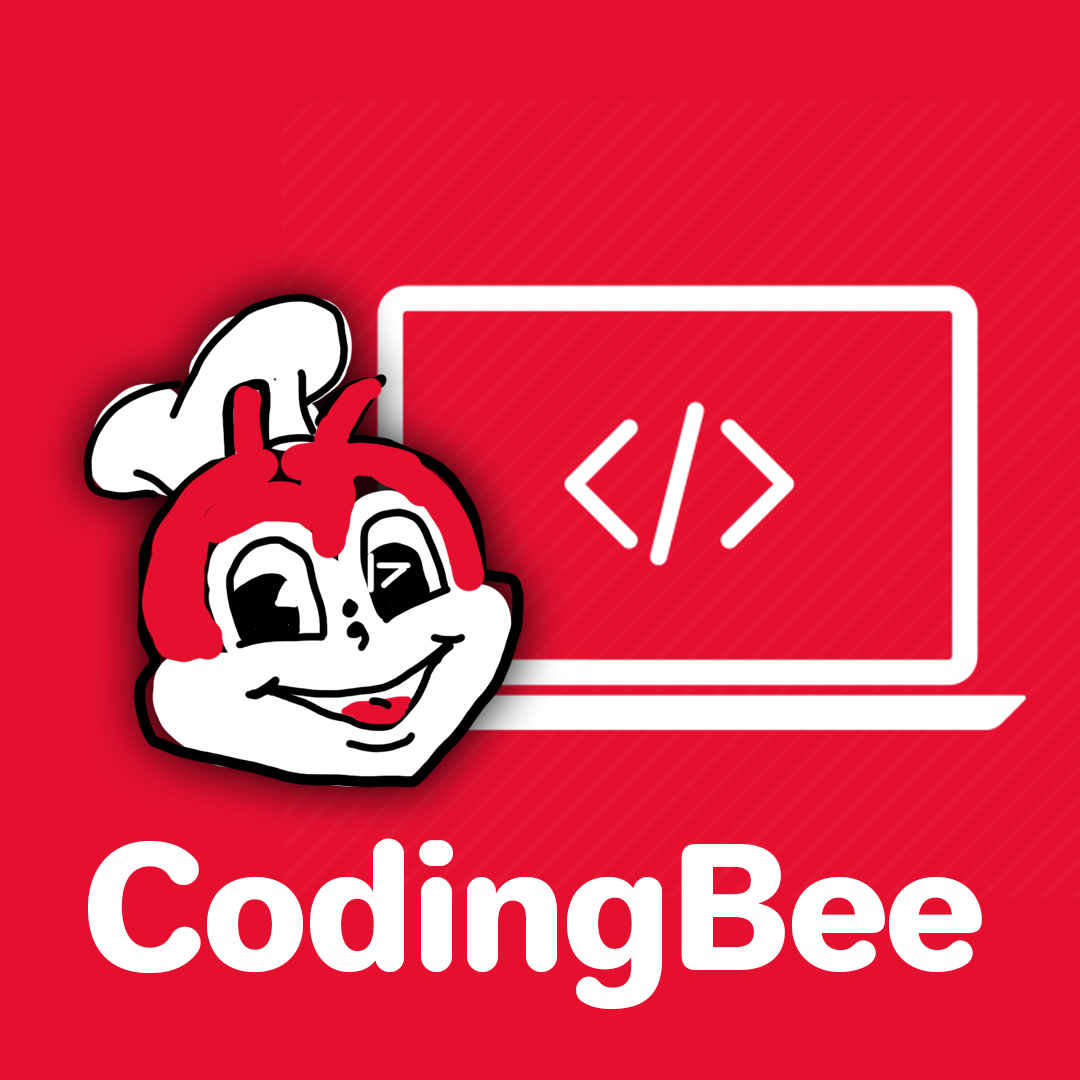
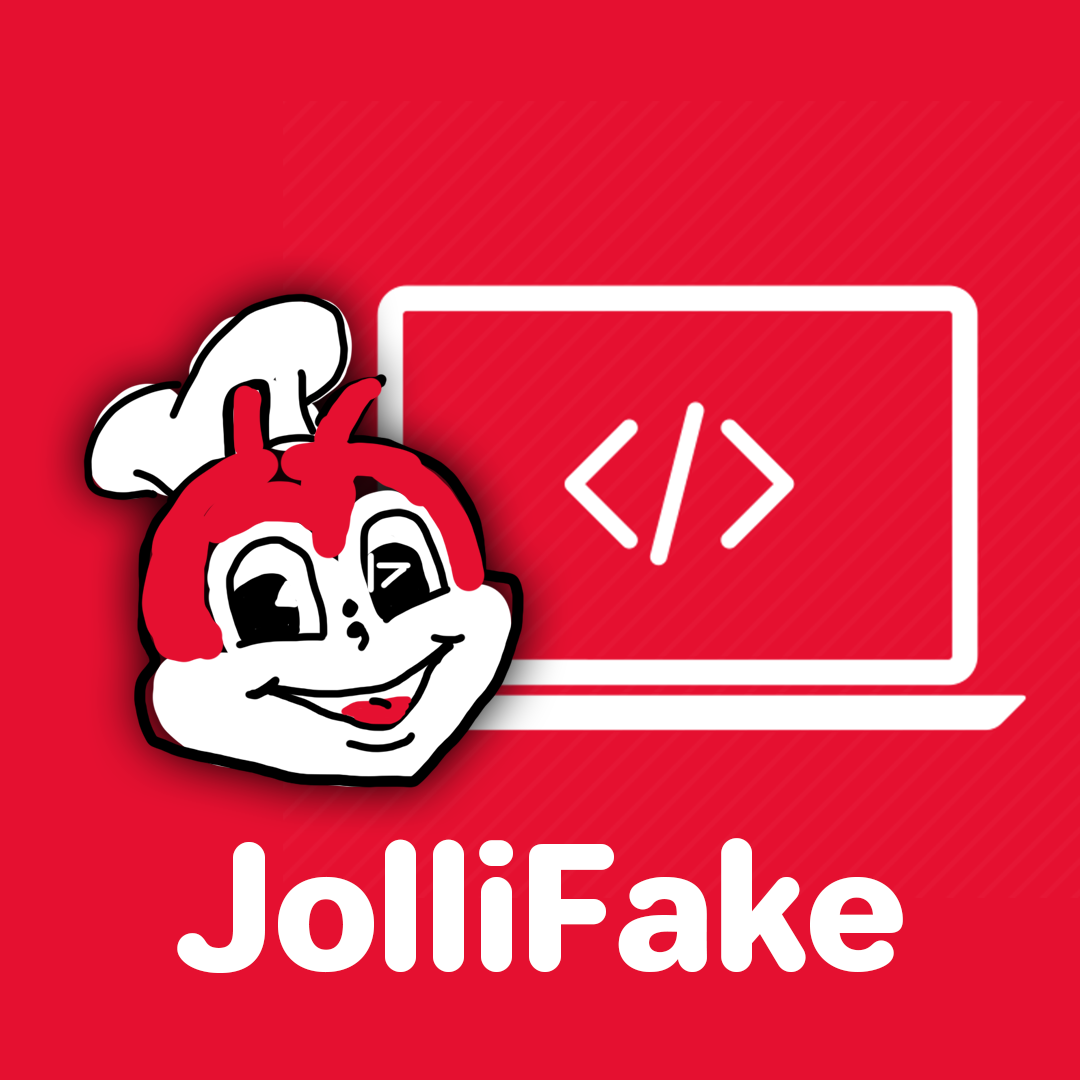
updated README.md

Changed region(s): [[0.0611, 0.7639, 0.9167, 0.9472]]

diff --git a/README.md b/README.md
@@ -1,16 +1,34 @@
-# jollifake README
+# Jollifake
+![alt text](https://imgur.com/Q3Z9LRE.png)
 
-## Working with Markdown
 
-You can author your README using Visual Studio Code. Here are some useful editor keyboard shortcuts:
 
-* Split the editor (`Cmd+\` on macOS or `Ctrl+\` on Windows and Linux).
-* Toggle preview (`Shift+Cmd+V` on macOS or `Shift+Ctrl+V` on Windows and Linux).
-* Press `Ctrl+Space` (Windows, Linux, macOS) to see a list of Markdown snippets.
+ ##  Ready to level up your coding game with a side of Filipino flair? 🍗🐝💻
+ 
+ Feast your eyes on "Jollifake: The Jollibee-Themed VSCode Theme" – where programming meets palatable pleasure!
 
-## For more information
+Embrace the warmth of Jollibee's signature red and yellow hues as you conquer bugs and errors with the spirit of a cheerful bee buzzing through lines of code. It's a coding experience that's truly "Bida ang Saya!"
 
-* [Visual Studio Code's Markdown Support](http://code.visualstudio.com/docs/languages/markdown)
-* [Markdown Syntax Reference](https://help.github.com/articles/markdown-basics/)
+With Jollifake, every line of code is a celebration, where joy and productivity unite to create a truly delightful and fulfilling experience. Every coding session becomes a fiesta of productivity and creativity, making you feel like a true "Bida" in the world of programming. Join the coding revolution and infuse your development journey with the magic of Jollifake!
 
-**Enjoy!**
+So why wait? Unleash the "linamnam" of CodingBee and bring a taste of Jollibee's joy to your coding escapades!
+
+#BidaAngPagCode
+
+# Changelog
+
+
+For extension changes, Please see [CHANGELOG.md](CHANGELOG.md).
+
+# Contributing
+
+
+Thank you for considering contributing to this VSCode color theme! Here are some guidelines to help you get started:
+
+1. Fork this repository and make your changes on a new branch.
+2. Test your changes to make sure they work as intended.
+3. Submit a pull request with your changes.
+
+Please note that I reserve the right to decline any contributions that do not follow the guidelines or do not fit the style of the theme.
+
+Big Thanks to [Fakedonald's by Samuele Pignone](https://marketplace.visualstudio.com/items?itemName=SamuelePignone.fakedonalds) for the inspiration 🎉🎉🙇♂
